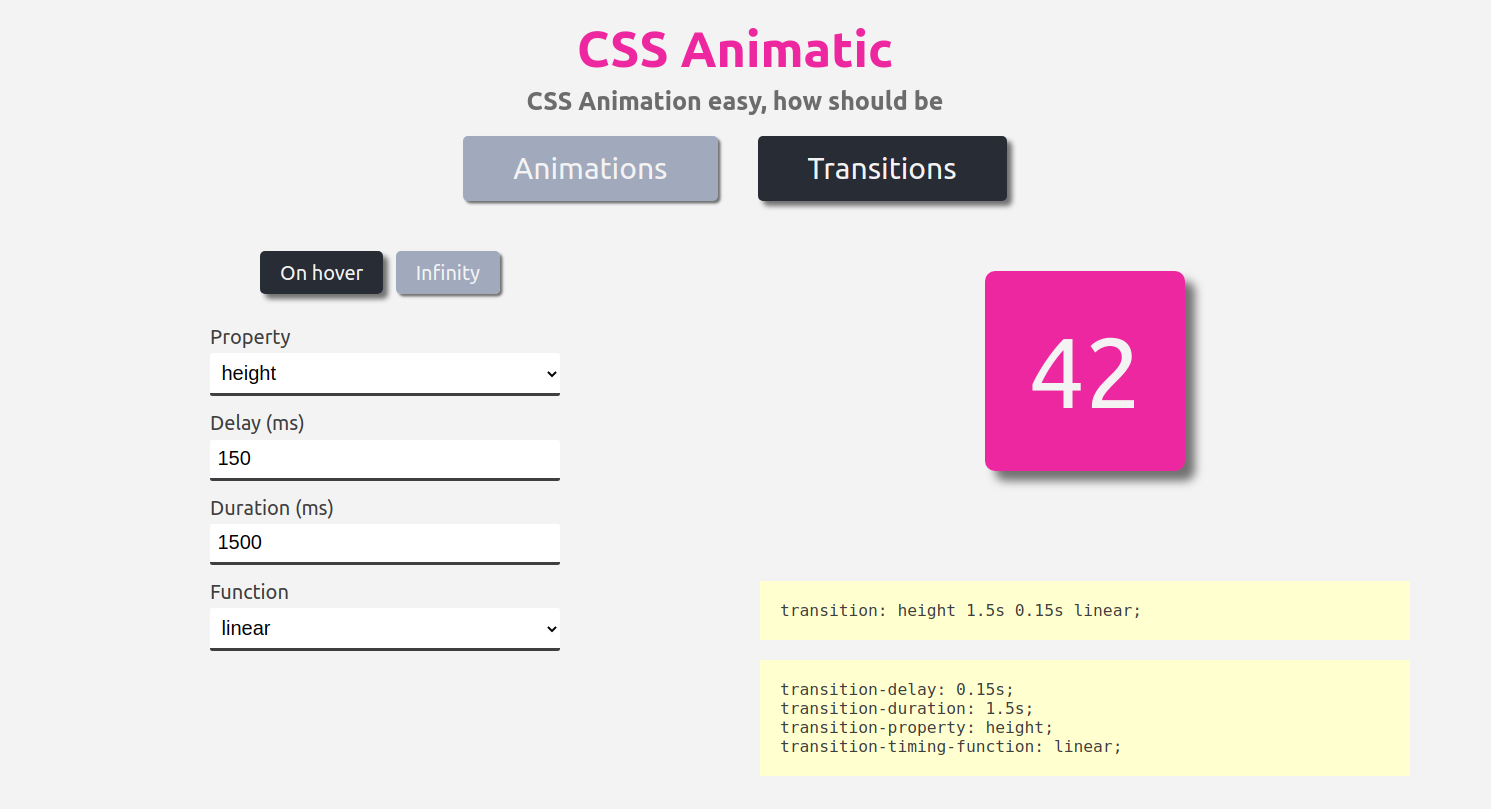
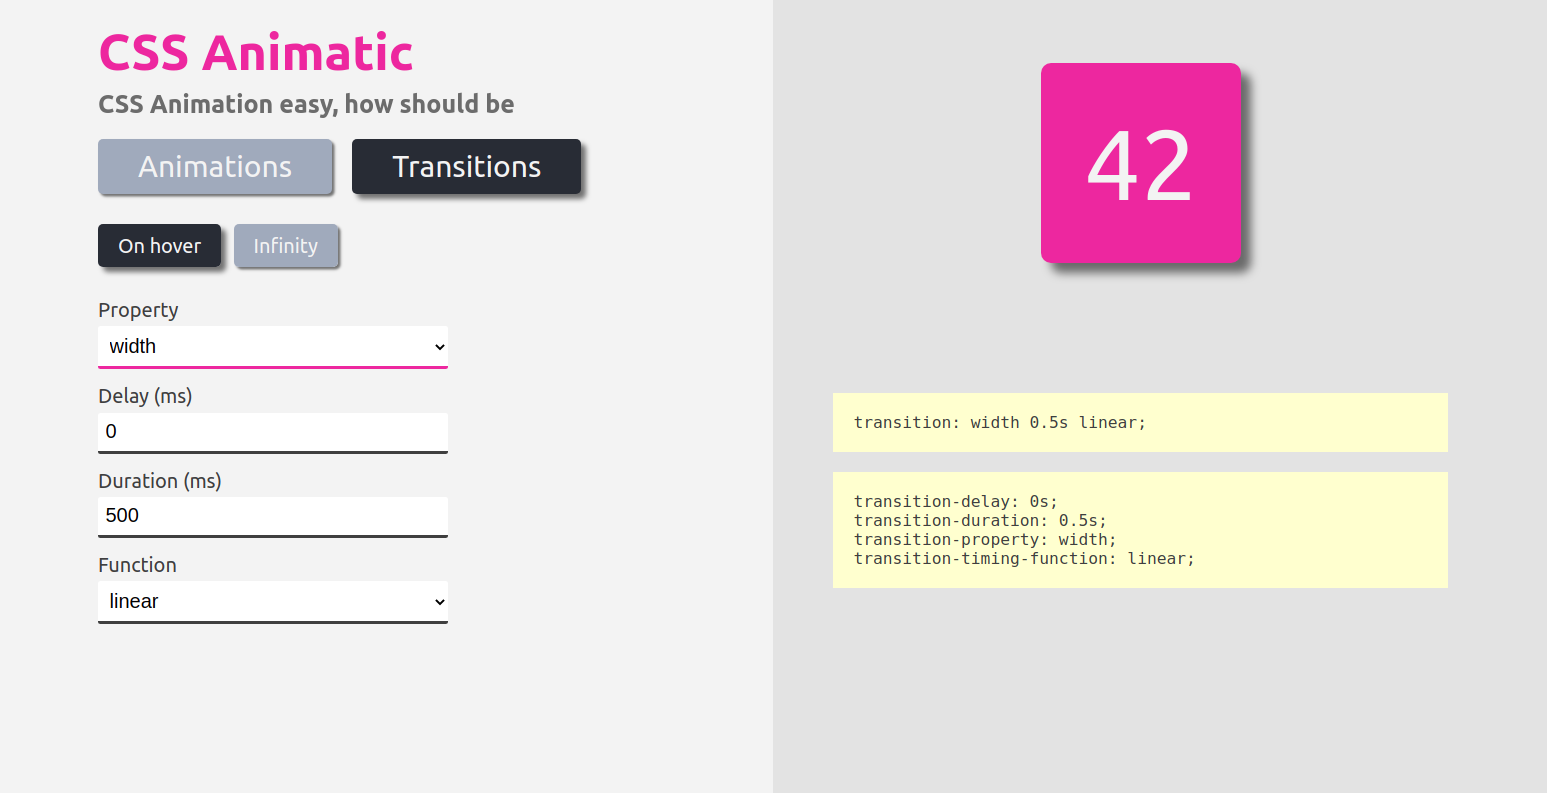
:art: Reestruturação da interface

diff --git a/index.html b/index.html
@@ -12,71 +12,68 @@
 </head>
 
 <body>
-    <h1>CSS Animatic</h1>
-    <h2>CSS Animation easy, how should be</h2>
-
     <input id="check-animation" type="checkbox" checked="true" />
 
-    <label class="type-animation" for="check-animation">
-        <span>Animations</span>
-        <span>Transitions</span>
-    </label>
+    <div class="header">
+        <h1>CSS Animatic</h1>
+        <h2>CSS Animation easy, how should be</h2>
+        <label class="type-animation" for="check-animation">
+            <span>Animations</span>
+            <span>Transitions</span>
+        </label>
+    </div>
 
-    <div class="content">
+    <div class="preview">
+        <div id="box">42</div>
+    </div>
+
+    <div class="config">
         <div class="painel painel-animations">
             <p class="soon">Soon...</p>
         </div>
-
         <div class="painel painel-transitions">
-            <div>
-                <div class="config">
-                    <input id="check-action" type="checkbox" onchange='changeTransitions()' />
-                    <label for="check-action" class="actions">
-                        <span class="action-hover">On hover</span>
-                        <span class="action-infinity">Infinity</span>
-                    </label>
-                    <form id="form-transitions">
-                        <label for="transition-property">Property</label>
-                        <select id="transition-property" class="property" onchange='changeTransitions()'>
-                            <option>all</option>
-                            <option>transform</option>
-                            <option>height</option>
-                            <option>width</option>
-                            <option>box-shadow</option>
-                        </select>
-                        <label for="transition-delay">Delay (ms)</label>
-                        <input type="number" id="transition-delay" class="timer delay" value="0"
-                            onchange='changeTransitions()' />
-                        <label for="transition-duration">Duration (ms)</label>
-                        <input type="number" id="transition-duration" class="timer duration" value="500"
-                            onchange='changeTransitions()' />
-                        <label>Function</label>
-                        <select class="function" onchange='changeTransitions()'>
-                            <option>linear</option>
-                            <option>ease</option>
-                            <option>ease-in</option>
-                            <option>ease-out</option>
-                            <option>ease-in-out</option>
-                        </select>
-                    </form>
-                </div>
-                <div class="code">
-                    <div class="sample">
-                        <div id="box">42</div>
-                    </div>
-                    <code class="simple">
-                        transition: all 0.5s 0s linear;
-                    </code>
-                    <code class="detailed">
-                        transition-delay: 0s;<br />
-                        transition-duration: 0.5s;<br />
-                        transition-property: all;<br />
-                        transition-timing-function: linear;
-                    </code>
-                </div>
-            </div>
-
+            <input id="check-action" type="checkbox" onchange='changeTransitions()' />
+            <label for="check-action" class="actions">
+                <span class="action-hover">On hover</span>
+                <span class="action-infinity">Infinity</span>
+            </label>
+            <form id="form-transitions">
+                <label for="transition-property">Property</label>
+                <select id="transition-property" class="property" onchange='changeTransitions()'>
+                    <option>all</option>
+                    <option>transform</option>
+                    <option>height</option>
+                    <option>width</option>
+                    <option>box-shadow</option>
+                </select>
+                <label for="transition-delay">Delay (ms)</label>
+                <input type="number" id="transition-delay" class="timer delay" value="0"
+                    onchange='changeTransitions()' />
+                <label for="transition-duration">Duration (ms)</label>
+                <input type="number" id="transition-duration" class="timer duration" value="500"
+                    onchange='changeTransitions()' />
+                <label>Function</label>
+                <select class="function" onchange='changeTransitions()'>
+                    <option>linear</option>
+                    <option>ease</option>
+                    <option>ease-in</option>
+                    <option>ease-out</option>
+                    <option>ease-in-out</option>
+                </select>
+            </form>
         </div>
+    </div>
+
+    <div class="code">
+        <code class="simple">
+            transition: all 0.5s 0s linear;
+        </code>
+        <code class="detailed">
+            transition-delay: 0s;<br />
+            transition-duration: 0.5s;<br />
+            transition-property: all;<br />
+            transition-timing-function: linear;
+        </code>
     </div>
 </body>
 

diff --git a/style.css b/style.css
@@ -23,15 +23,35 @@ body {
 
   font-family: -apple-system, BlinkMacSystemFont, "Segoe UI", Roboto, Oxygen,
     Ubuntu, Cantarell, "Open Sans", "Helvetica Neue", sans-serif;
-
-  color: var(--text);
-  background: var(--background);
-  padding: 2rem 10rem;
 }
 
-@media (max-width: 980px) {
+body {
+  color: var(--text);
+  background: linear-gradient(
+    90deg,
+    var(--background) 0%,
+    var(--background) 50%,
+    var(--backgroundLight) 50%
+  );
+
+  padding: 2rem 8rem;
+  display: grid;
+  grid-template:
+    "header preview"
+    "config preview"
+    "config code";
+}
+
+@media (max-width: 1024px) {
   body {
-    padding: 2rem;
+    background: var(--background);
+    padding: 2rem 4rem;
+    display: grid;
+    grid-template:
+      "header"
+      "config"
+      "preview"
+      "code";
   }
 }
 
@@ -40,6 +60,8 @@ body {
   align-items: center;
   justify-content: center;
   font-size: 10rem;
+  position: absolute;
+  left: 50%;
   width: 20rem;
   height: 20rem;
   margin: 0 auto;
@@ -49,18 +71,17 @@ body {
   box-shadow: 1rem 1rem 1rem 0px var(--shadowBox);
   cursor: pointer;
   transition: all 0.5s linear;
+  transform: translateX(-50%);
 }
 
 h1 {
   margin: 1rem 0;
   color: var(--highlight);
-  text-align: center;
   font-size: 5rem;
 }
 
 h2 {
   margin: 0 0 2rem;
-  text-align: center;
   font-size: 2.5rem;
   opacity: 0.75;
 }
@@ -88,20 +109,14 @@ span:hover {
 
 .type-animation {
   width: 50%;
-  margin: 0 auto;
   display: flex;
-  justify-content: center;
+  justify-content: flex-start;
 }
 
 .type-animation span {
-  padding: 1.5rem 5rem;
-  margin: 0 2rem;
+  padding: 1rem 4rem;
+  margin-right: 2rem;
   font-size: 3rem;
-}
-
-.content {
-  margin: 2rem 0;
-  position: relative;
 }
 
 form {
@@ -145,46 +160,51 @@ form select:focus {
 
 .painel {
   position: absolute;
-  height: 50vh;
+  top: 0;
   z-index: 5;
   opacity: 1;
   transition: all 0.5s;
   width: 100%;
-}
-
-.painel > div {
-  display: grid;
-  grid-template-columns: repeat(2, calc(50% - 2.5rem));
-  grid-column-gap: 5rem;
-}
-
-@media (max-width: 980px) {
-  .painel > div {
-    grid-template-columns: 100%;
-  }
-}
-
-.config {
   display: flex;
   flex-direction: column;
-  align-items: center;
   justify-content: flex-start;
 }
 
-.code {
-  display: flex;
-  flex-direction: column;
-  justify-content: center;
+@media (max-width: 1024px) {
+  .painel {
+    position: relative;
+    align-items: center;
+  }
 }
 
-.sample {
+.header {
+  grid-area: header;
+}
+
+.config {
+  grid-area: config;
+  position: relative;
+  margin-bottom: 2rem;
+}
+
+.preview {
+  grid-area: preview;
+  position: relative;
   display: flex;
-  padding: 5rem;
+  padding: 5rem 0;
   margin-bottom: 1rem;
   border-radius: 2%;
   width: 100%;
-  height: 35rem;
+  height: 37rem;
   transition: all 0.3s;
+}
+
+.code {
+  grid-area: code;
+  padding-left: 2rem;
+  display: flex;
+  flex-direction: column;
+  justify-content: center;
 }
 
 #check-animation,
@@ -192,14 +212,14 @@ form select:focus {
   display: none;
 }
 
-#check-animation:checked ~ .content .painel-animations,
-#check-animation:not(:checked) ~ .content .painel-transitions {
+#check-animation:checked ~ .config .painel-animations,
+#check-animation:not(:checked) ~ .config .painel-transitions {
   z-index: 0;
   opacity: 0;
 }
 
-#check-animation:checked ~ .type-animation span:first-child,
-#check-animation:not(:checked) ~ .type-animation span:last-child,
+#check-animation:checked ~ .header span:first-child,
+#check-animation:not(:checked) ~ .header span:last-child,
 #check-action:checked ~ .actions .action-hover,
 #check-action:not(:checked) ~ .actions .action-infinity {
   background-color: var(--backgroundMedium);
@@ -207,7 +227,6 @@ form select:focus {
 }
 
 .soon {
-  text-align: center;
   font-size: 3rem;
   opacity: 0.5;
   margin-top: 5rem;

diff --git a/script.js b/script.js
@@ -1,6 +1,6 @@
 var end = {
-  all: "scale(1.2)",
-  transform: "rotate(90deg)",
+  all: "translateX(-50%) scale(1.2)",
+  transform: "translateX(-50%) rotate(90deg)",
   height: "30rem",
   width: "40rem",
   "box-shadow": "0.25rem 0.25rem 0.25rem 0.25rem var(--shadowBox)",
@@ -42,7 +42,7 @@ function changeTransitions() {
     "s " +
     (delaySec !== 0 ? delaySec + "s " : "") +
     func;
-    
+
   var detailedHtml =
     "transition-delay: " +
     delaySec +
@@ -58,11 +58,8 @@ function changeTransitions() {
     ";";
 
   box.style.transition = css;
-  document.querySelector(".painel-transitions .simple").innerHTML =
-    "transition: " + css + ";";
-  document.querySelector(
-    ".painel-transitions .detailed"
-  ).innerHTML = detailedHtml;
+  document.querySelector(".simple").innerHTML = "transition: " + css + ";";
+  document.querySelector(".detailed").innerHTML = detailedHtml;
 }
 
 window.onload = changeTransitions;
